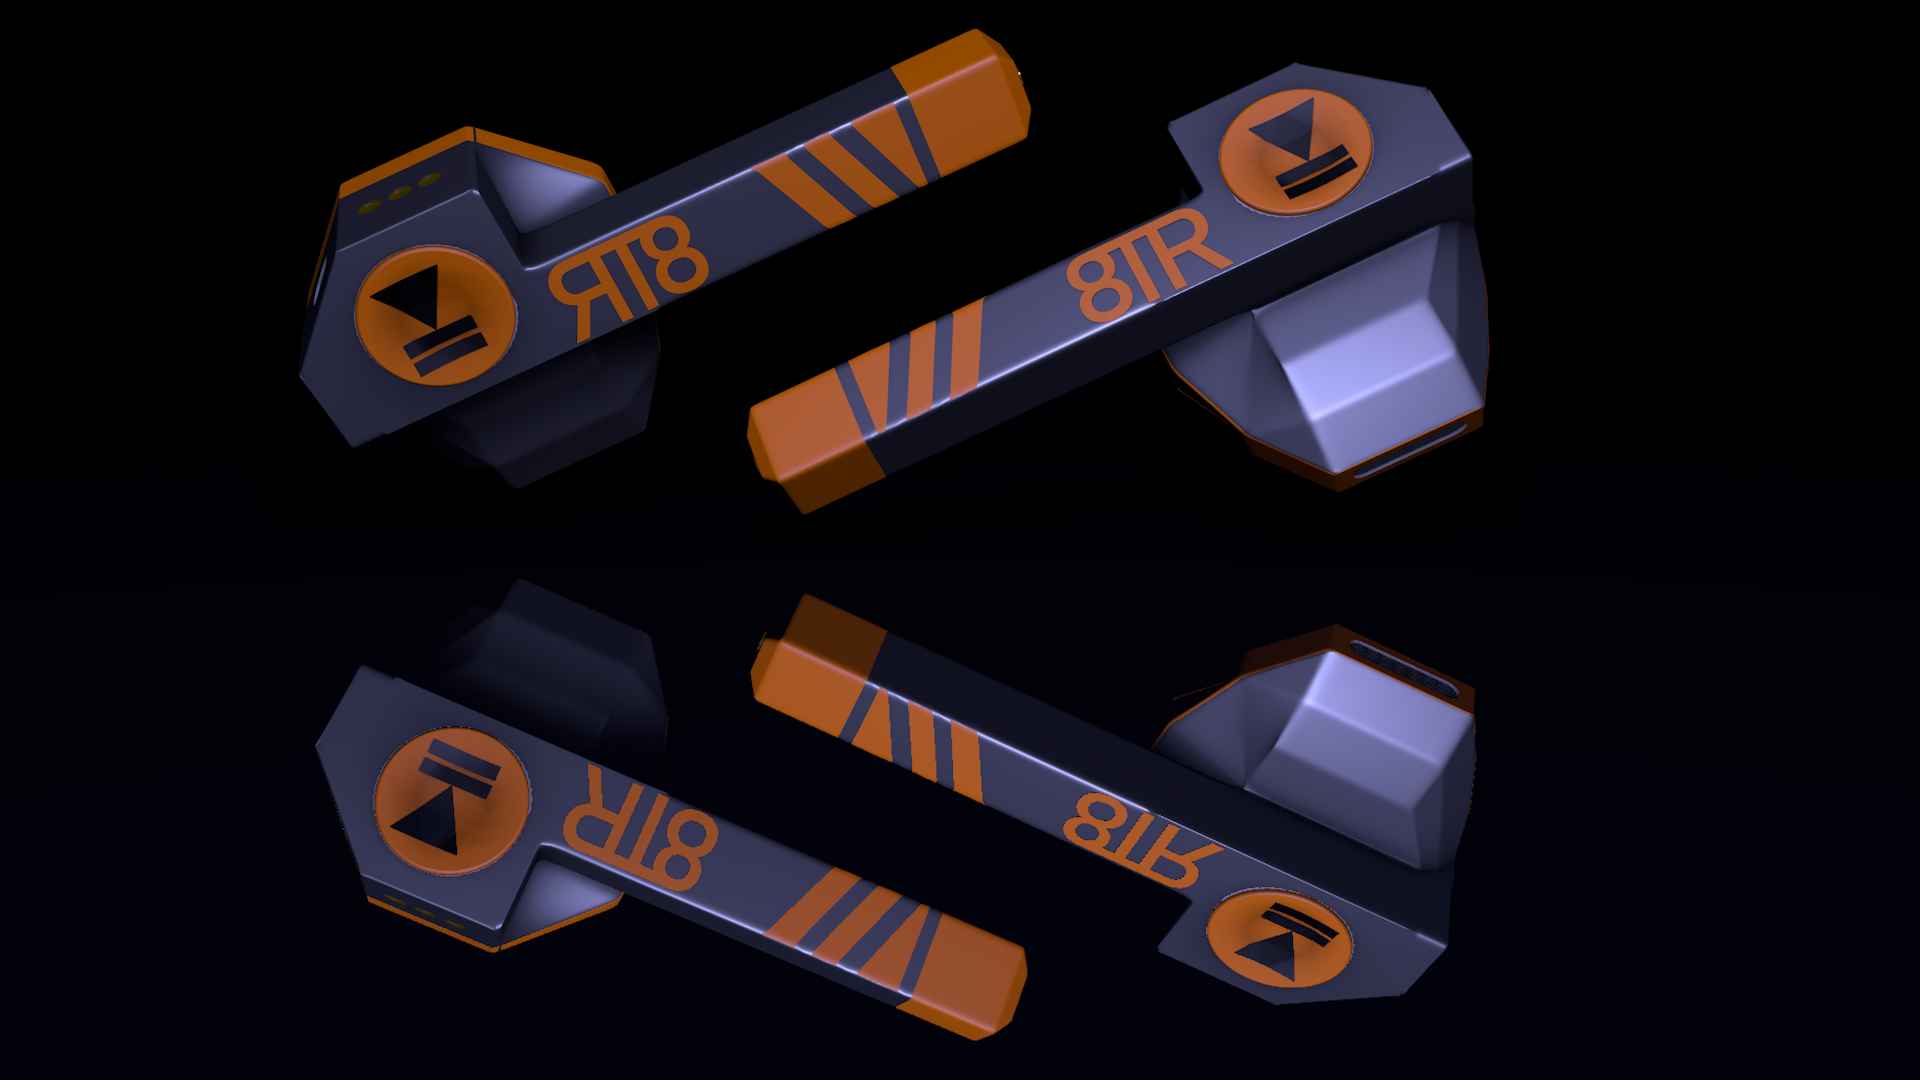
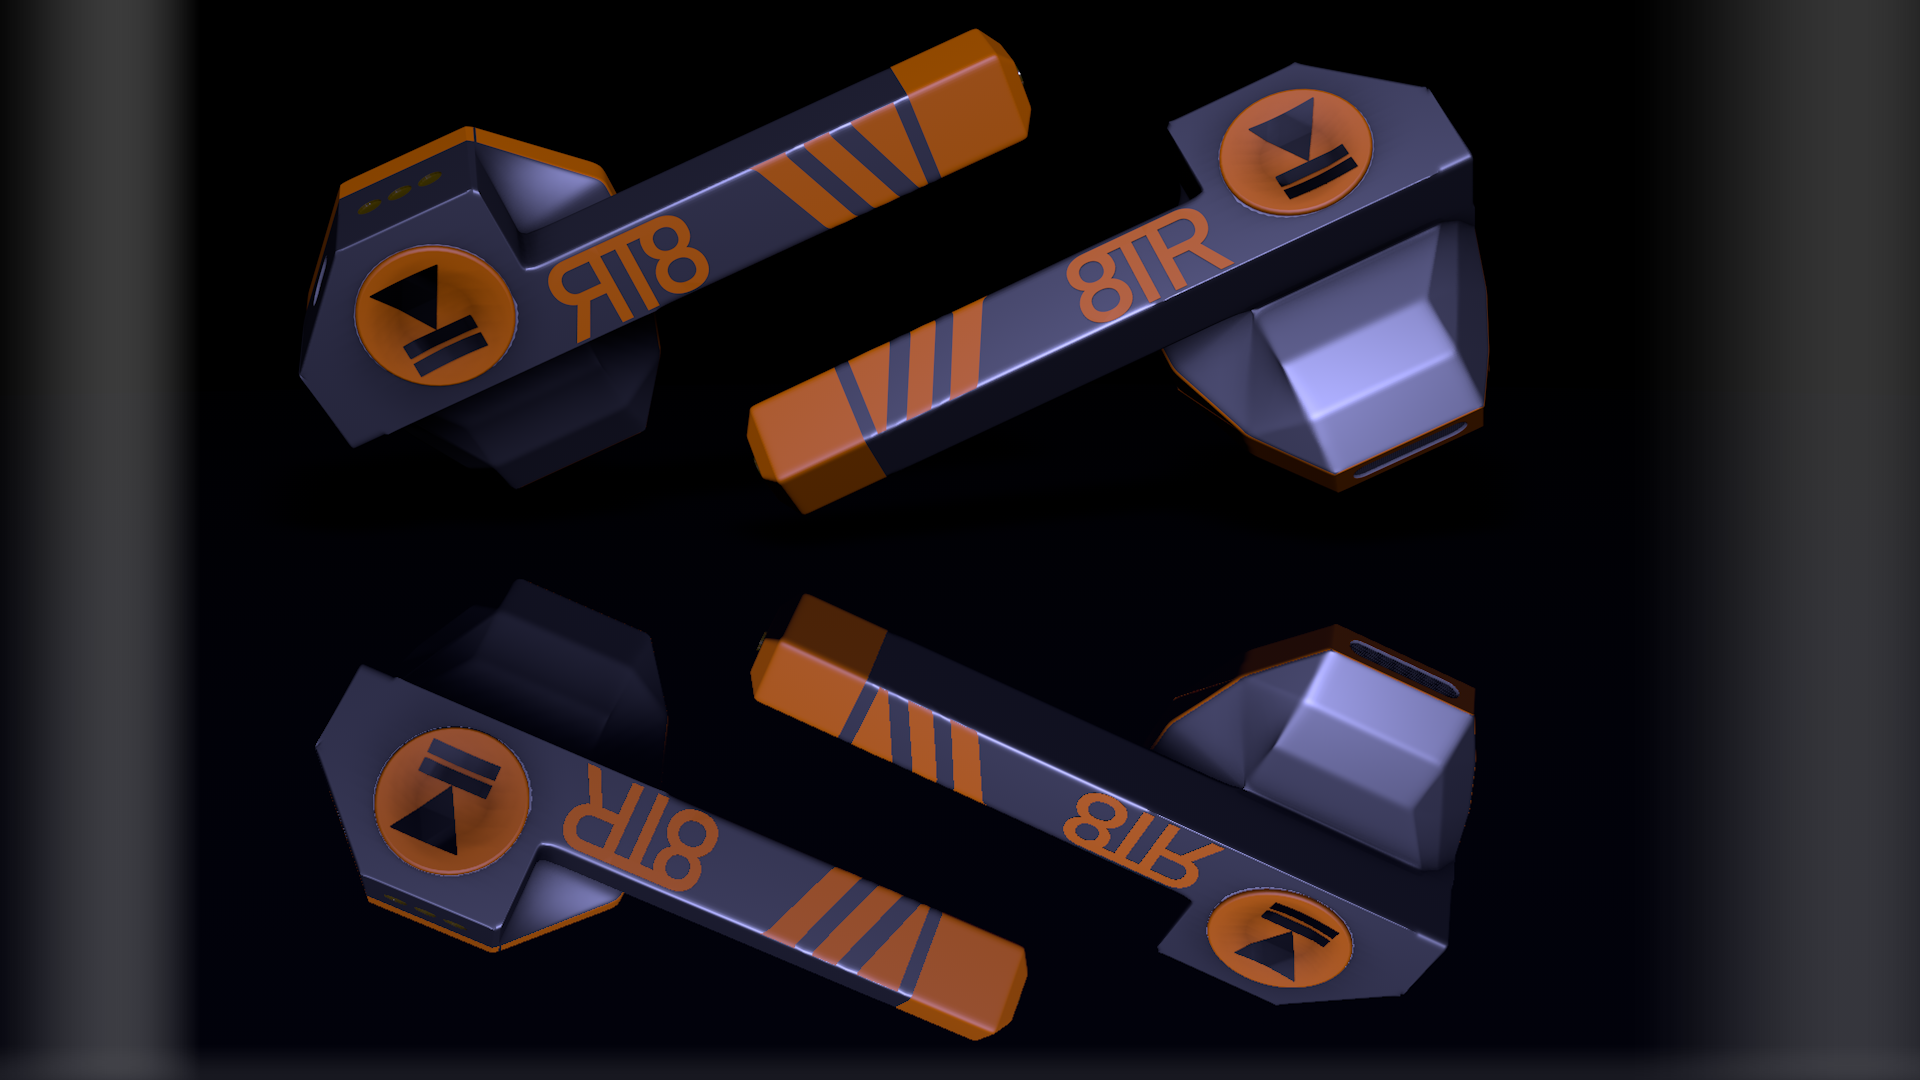
altered hero image, updated readme

Changed region(s): [[0.8438, 0.0, 1.0, 1.0], [0.0, 0.0, 0.125, 1.0]]

diff --git a/README.md b/README.md
@@ -1,23 +1,48 @@
 # Earbuds_site_ramona_lozon
-a promotional site for 8TRACK earbuds
+### a promotional site for 8TRACK earbuds
 
-Table of Contents
+# Table of Contents
+##[About](#about-8track)<br>
+##[Installation](#installation)<br>
+##[Languages](#languages-used)<br>
+##[Technologies](#technologies)<br>
+##[Features](#features)<br>
+##[License](#license)<br>
 
-About 8track
+# About 8Track
+8Track is a conceptual audio hardware company that makes products with a retro apearance but with modern technology inside.
 
-Languages used
-HTML5
-CSS
-Javascript
+# Installation
+to view the site, make sure you have VSC or another code editor with the baility to view a page live as you edit,<br> 
+in order to enable this on VSC you'll need and external Plugin, one that i used is linked [Here](https://marketplace.visualstudio.com/items?itemName=ritwickdey.LiveServer)
 
-Technologies
-SASS
-Greensock
-Model Viewer
-Cinema 4d
-Adobe After Effects
+# Languages Used
+<img src="images/html5.png" alt="HTML Logo" width="50"><br>HTML5
 
-Features
-Scroll-driven animation
-Model-Viewer
-X-ray slider
+<img src="images/css-3.svg" alt="HTML Logo" width="50"><br>CSS
+
+<img src="images/JavaScript-Logo.png" alt="HTML Logo" width="100"><br>Javascript
+
+# Technologies
+<img src="images/Sass_Logo_Color.svg" alt="SASS Logo" width="50"><br>SASS
+
+<img src="images/greensock-logo.png" alt="Greensock Logo" width="50"><br>Greensock
+
+<img src="images/model-viewer-logo.png" alt="Model Viewer" width="50"><br>Model Viewer
+
+<img src="images/Cinema-4D-Logo.png" alt="Model Viewer" width="50"><br>Cinema 4d
+
+<img src="images/after-effects.svg" alt="After Effects Logo" width="50"><br>Adobe After Effects
+
+# Features
+### Scroll-driven animation
+below the hero image is an animation that is driven by the progress of the scrollbar. the further you scroll, the father the animation plays. once the animation is done, scrolling beyond it is possible. Made with greensock.
+
+### Model-Viewer
+an interactive 3-d model of the earbuds with hotspots that display additional information when hovered over with your cursor, built using Model-Viewer.
+
+### X-ray slider
+an interactive image where you can adjust the slider to reveal the inner workings of one of the 8Track earbuds.
+
+# License
+this repository uses the MIT License
